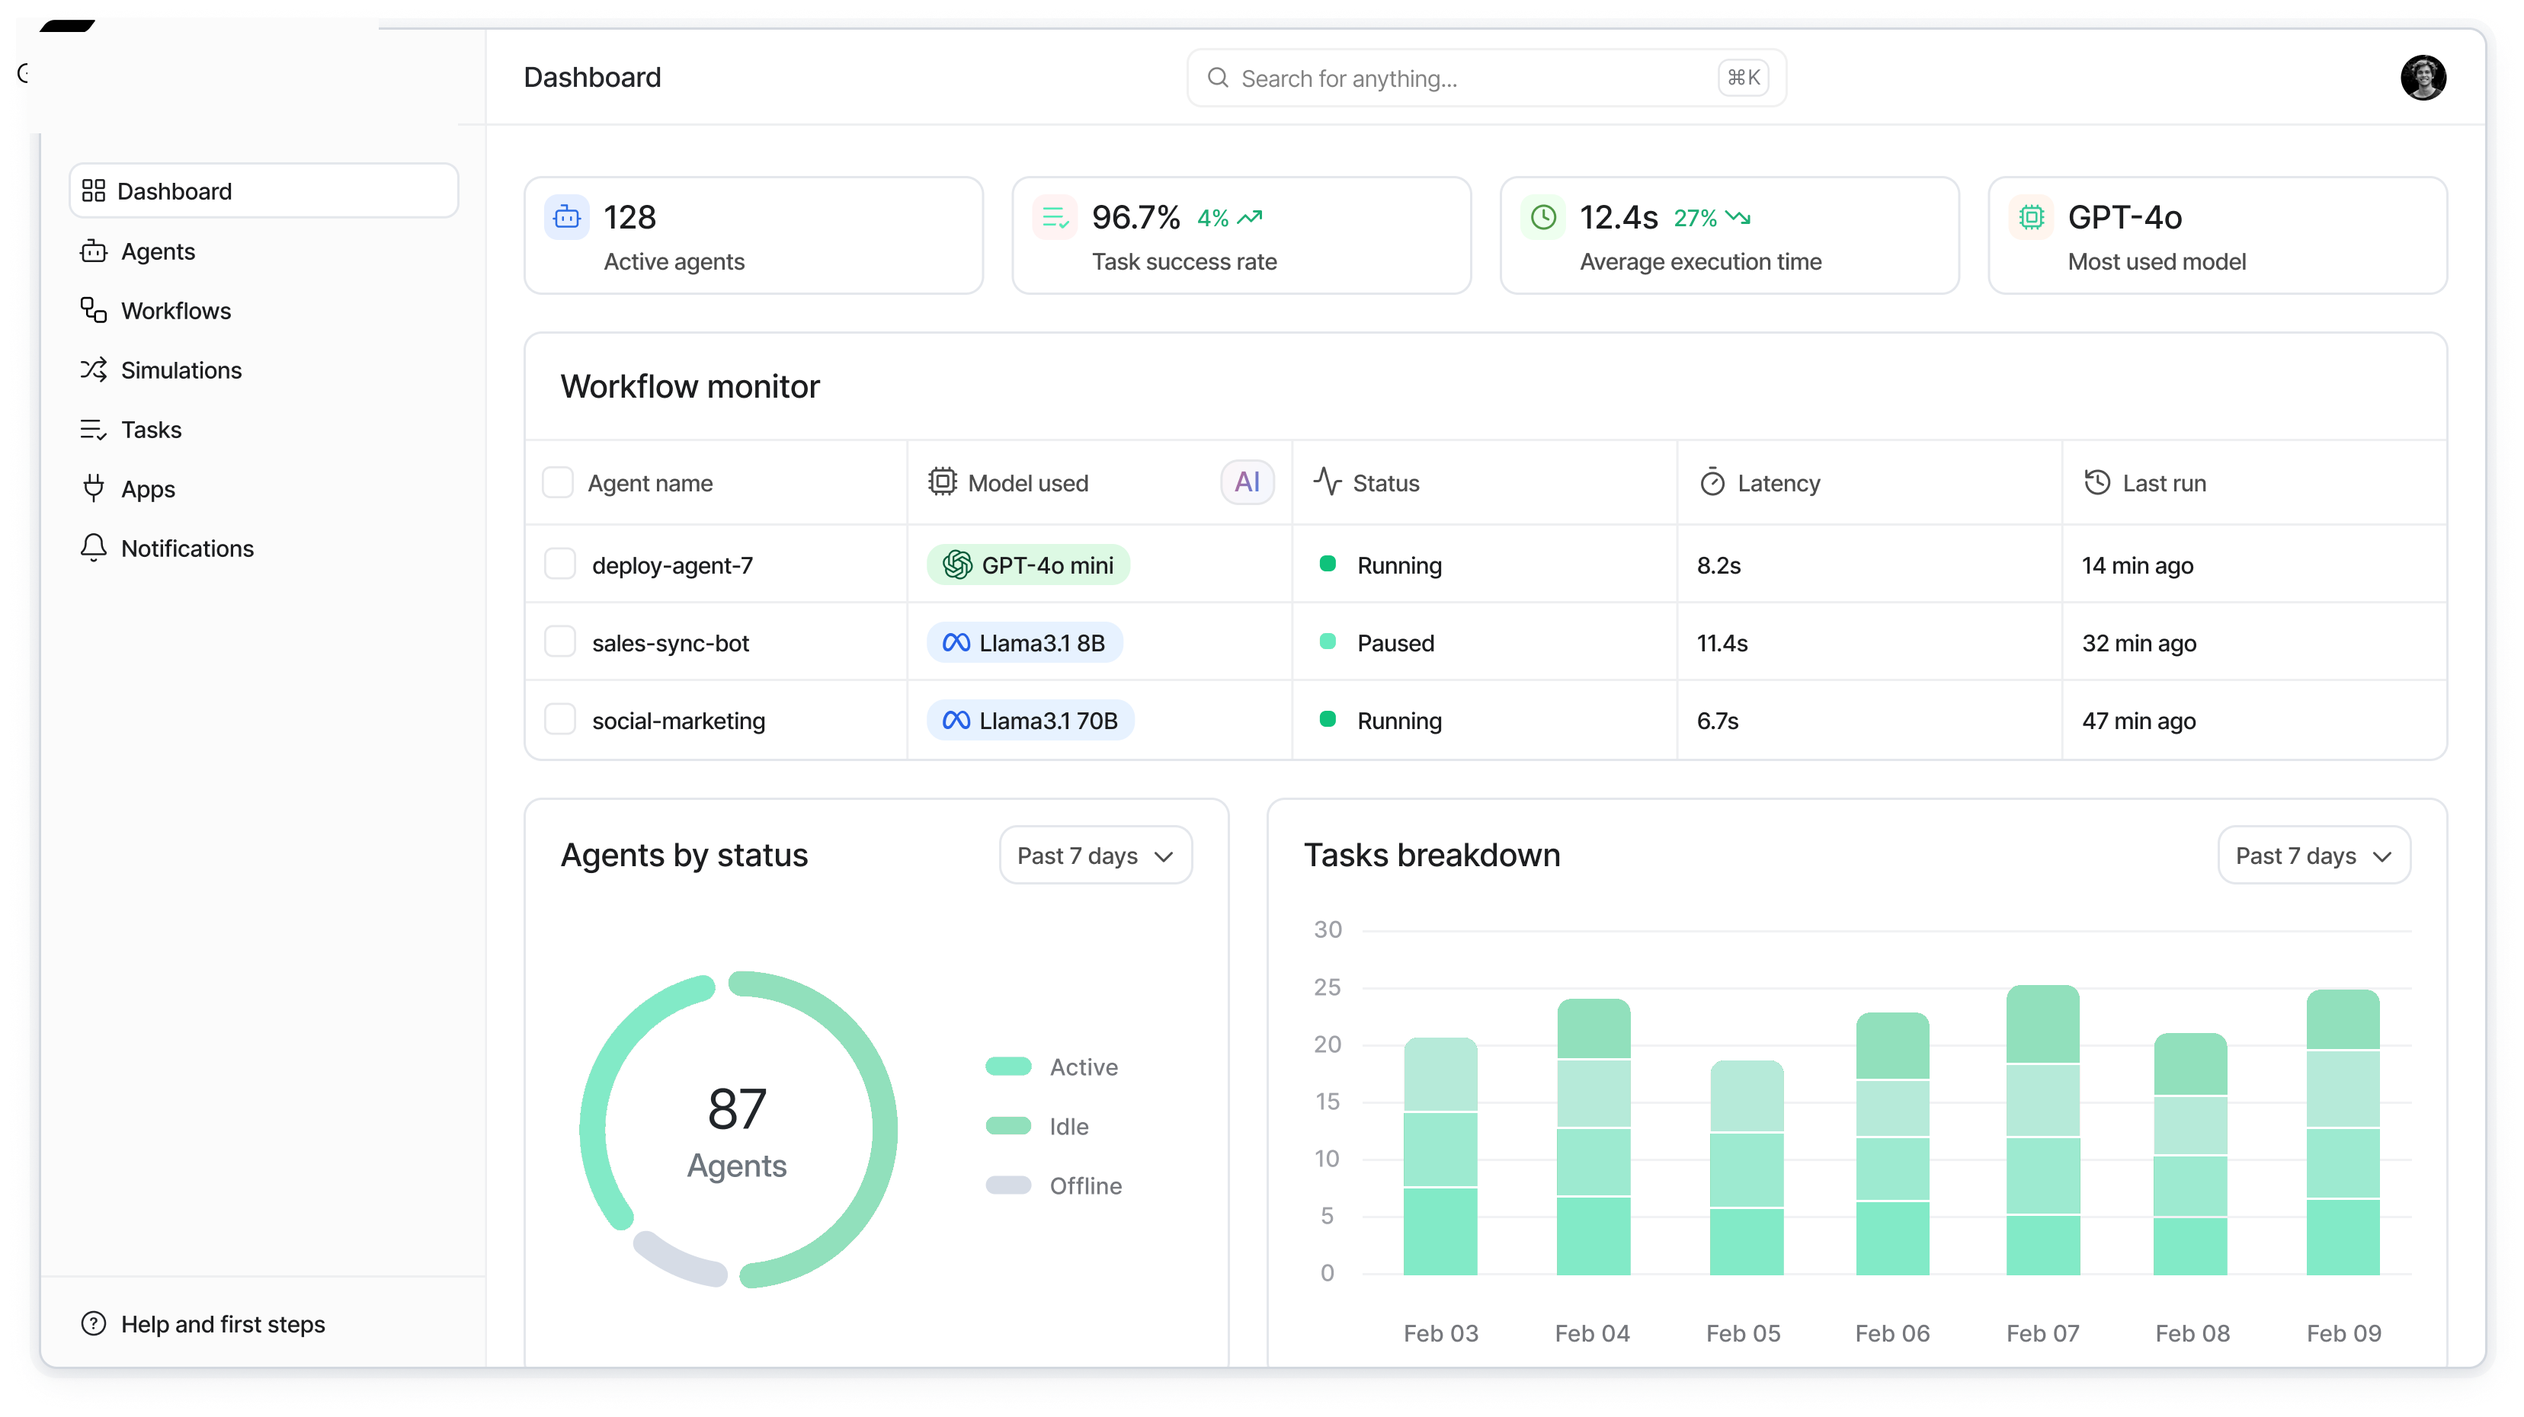
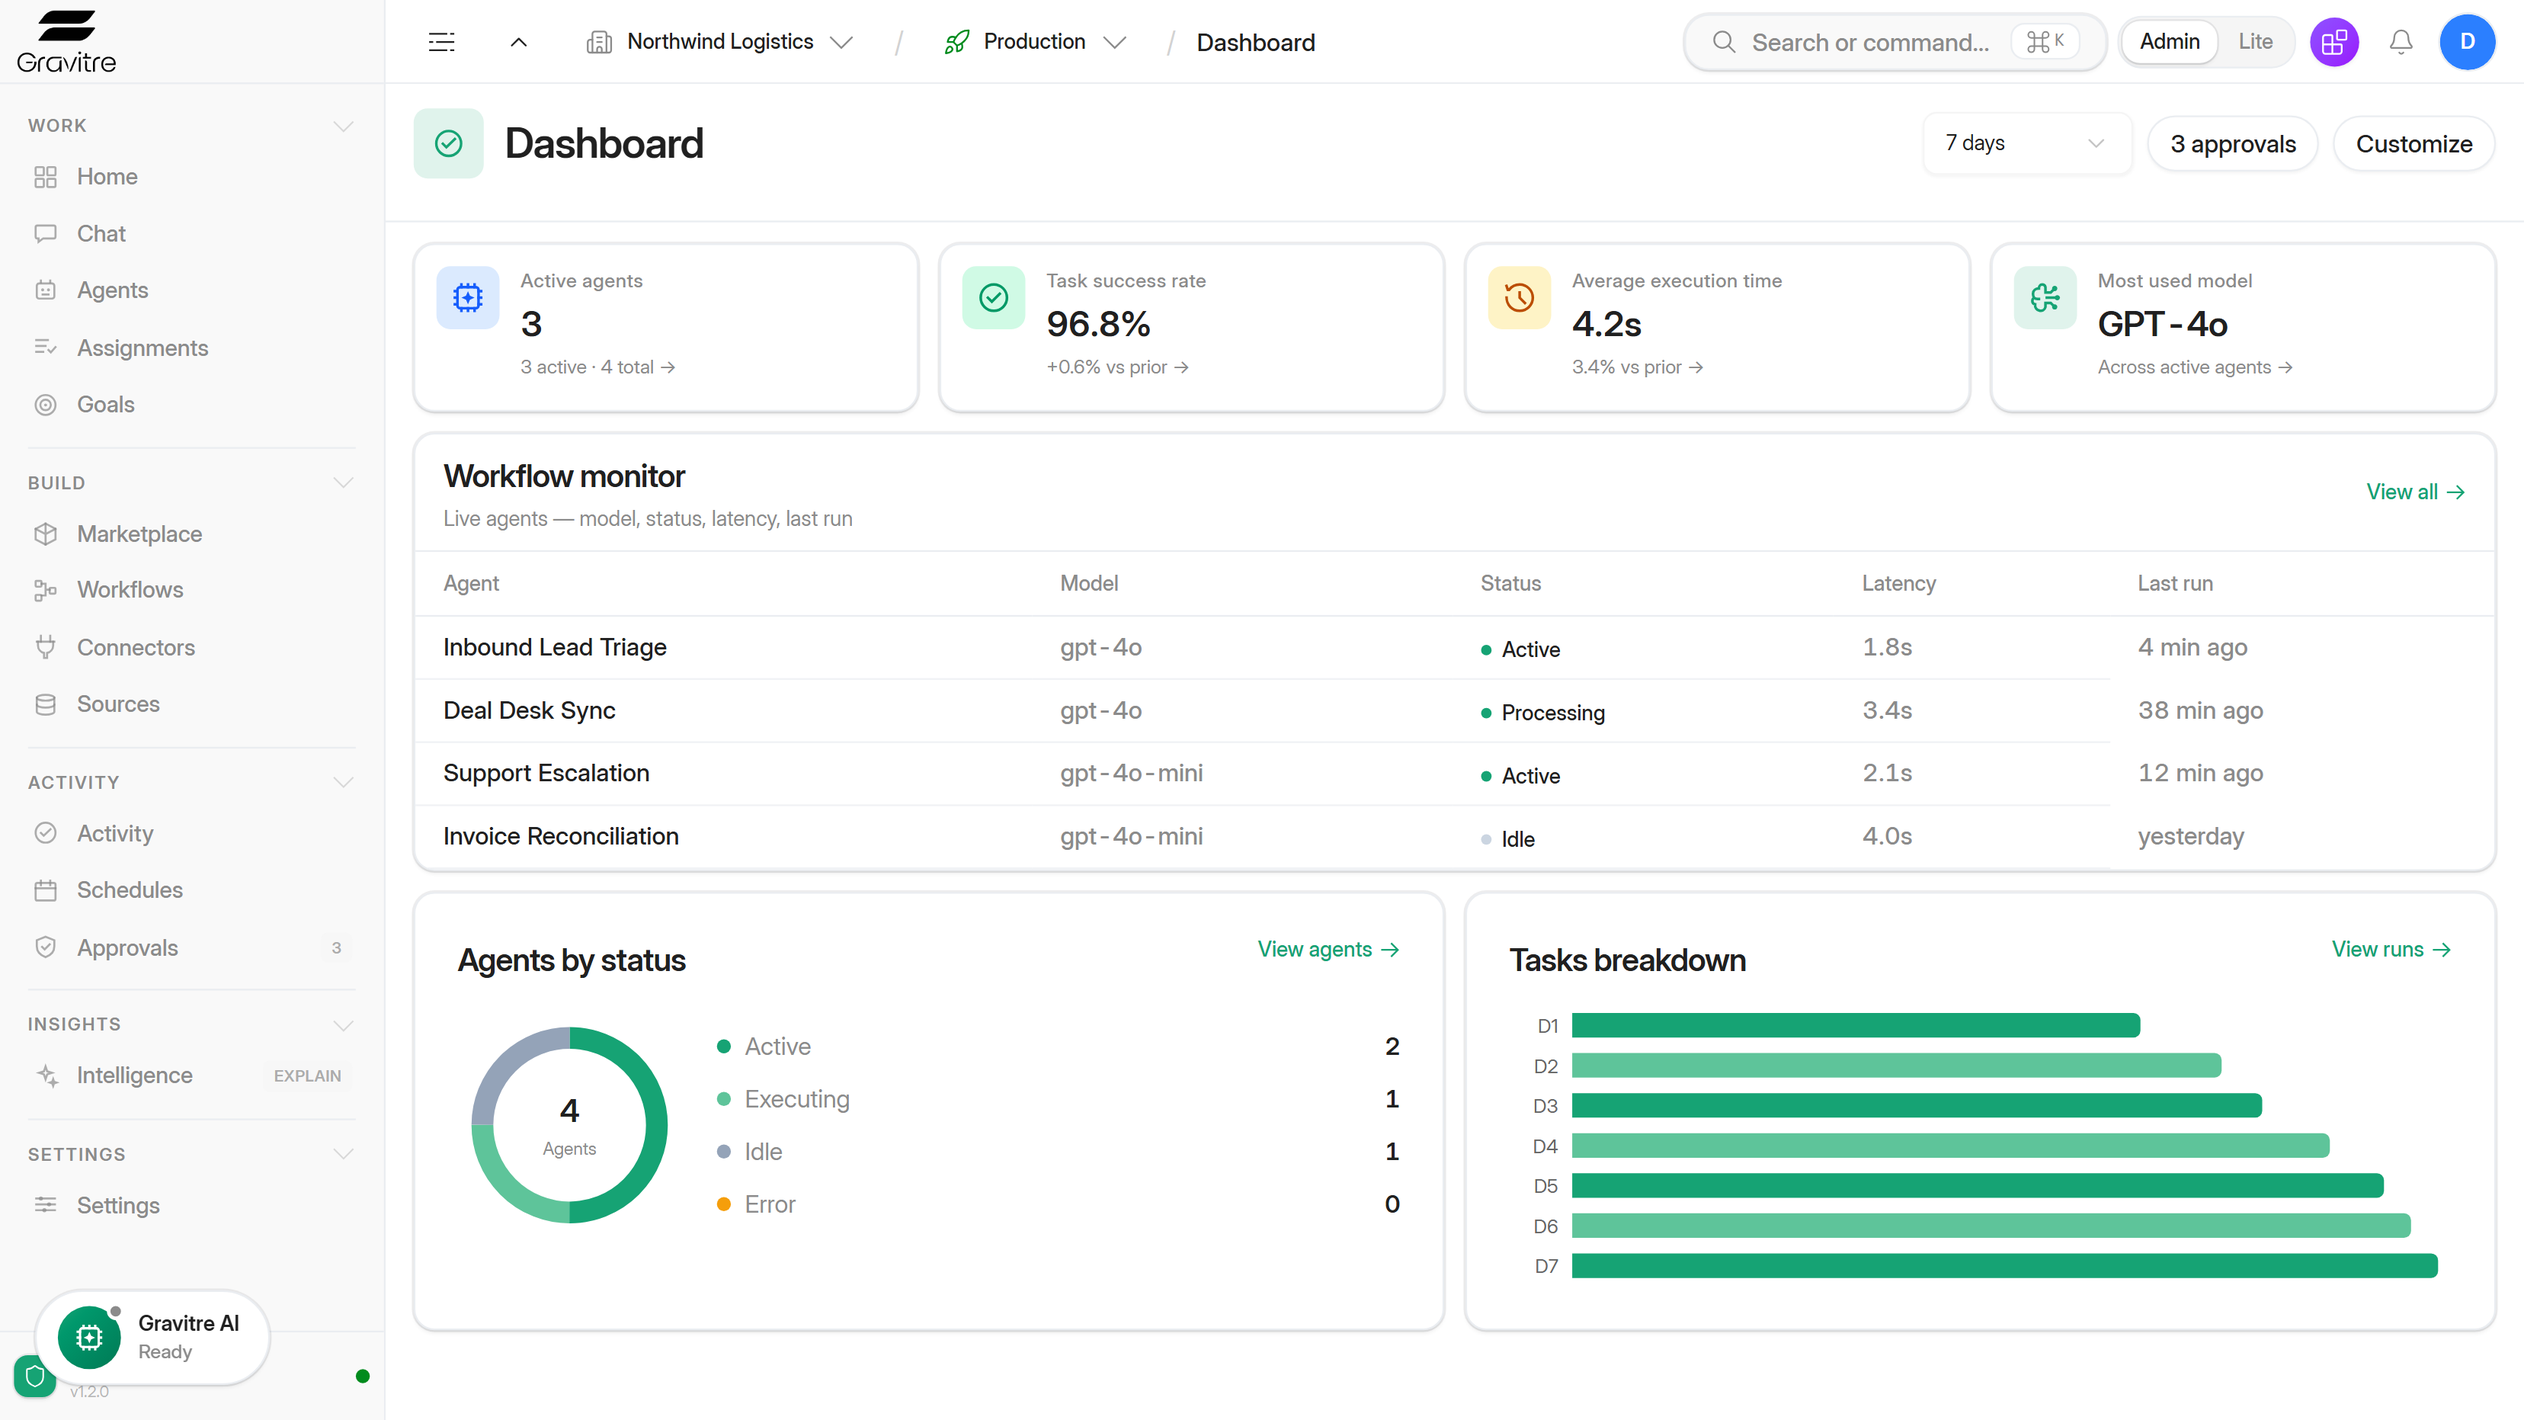
fix(marketing): restore crisp hero screenshot and align home KPIs with Nodus
Revert lazy AVIF/WebP hero to full-resolution PNG for mobile reliability, add Nodus-style KPI icons plus Most used model as the fourth default metric, and refresh dashboard marketing captures from the fixture home surface.

diff --git a/apps/web/components/home/dashboard-widget-view.tsx b/apps/web/components/home/dashboard-widget-view.tsx
@@ -1,5 +1,6 @@
 "use client"
 
+import type { ReactNode } from "react"
 import Link from "next/link"
 import {
   Bar,
@@ -23,9 +24,16 @@ import { cn } from "@/lib/utils"
 import { KPI_BY_ID } from "@/lib/dashboard/kpi-registry"
 import type { PlacedWidget } from "@/lib/dashboard/place-widgets"
 import type { HomeDashboardData } from "@/hooks/use-home-dashboard-data"
+import { formatModelLabel } from "@/hooks/use-home-dashboard-data"
 import { relativeTime } from "@/lib/agent-job-result"
 import { APP_ROUTES } from "@/lib/app-routes"
-import { NucleoArrowRight } from "@/components/icons/nucleo/semantic"
+import {
+  NucleoAgent,
+  NucleoArrowRight,
+  NucleoHistory,
+  NucleoIntelligence,
+  NucleoSuccess,
+} from "@/components/icons/nucleo/semantic"
 
 const BRAND = "#16a374"
 const BRAND_SOFT = "#5ec49a"
@@ -46,19 +54,41 @@ function emptyLabel(kind: "runs" | "agents" | "generic"): string {
   return "No data yet"
 }
 
+const KPI_ICON_STYLES: Record<string, { icon: ReactNode; iconClassName: string }> = {
+  "agents.active": {
+    icon: <NucleoAgent className="h-[18px] w-[18px]" aria-hidden />,
+    iconClassName: "bg-blue-100 text-blue-600",
+  },
+  "runs.success_rate": {
+    icon: <NucleoSuccess className="h-[18px] w-[18px]" aria-hidden />,
+    iconClassName: "bg-emerald-100 text-emerald-600",
+  },
+  "runs.avg_duration": {
+    icon: <NucleoHistory className="h-[18px] w-[18px]" aria-hidden />,
+    iconClassName: "bg-amber-100 text-amber-700",
+  },
+  "models.most_used": {
+    icon: <NucleoIntelligence className="h-[18px] w-[18px]" aria-hidden />,
+    iconClassName: "bg-[color:var(--g-brand-soft)] text-[color:var(--g-brand)]",
+  },
+}
+
 function MetricNumber({
+  metricId,
   label,
   value,
   hint,
   href,
   warning,
 }: {
+  metricId?: string
   label: string
   value: string
   hint?: string
   href?: string
   warning?: boolean
 }) {
+  const iconStyle = metricId ? KPI_ICON_STYLES[metricId] : undefined
   return (
     <GravitreMetric
       label={label}
@@ -66,6 +96,8 @@ function MetricNumber({
       hint={hint}
       href={href}
       warning={warning}
+      icon={iconStyle?.icon}
+      iconClassName={iconStyle?.iconClassName}
       className="h-full"
     />
   )
@@ -378,9 +410,21 @@ function resolveKpiValue(
     case "runs.avg_duration":
       return {
         value: formatDuration(data.metrics.avgDuration),
-        hint: data.metrics.avgDuration != null ? "Mean run duration →" : "Waiting for runs",
+        hint:
+          data.metrics.avgDuration != null
+            ? data.metrics.changes.avgLatency != null
+              ? `${data.metrics.changes.avgLatency >= 0 ? "+" : ""}${Math.abs(data.metrics.changes.avgLatency)}% vs prior →`
+              : "Mean run duration →"
+            : "Waiting for runs",
         href,
         empty: data.metrics.avgDuration == null,
+      }
+    case "models.most_used":
+      return {
+        value: data.mostUsedModel ? formatModelLabel(data.mostUsedModel) : "—",
+        hint: data.mostUsedModel ? "Across active agents →" : "Assign models to agents",
+        href,
+        empty: !data.mostUsedModel,
       }
     case "runs.total":
       return {
@@ -626,6 +670,7 @@ export function DashboardWidgetView({
 
   return (
     <MetricNumber
+      metricId={widget.metricId}
       label={title}
       value={resolved.empty && resolved.value === "—" ? "—" : resolved.value}
       hint={

diff --git a/apps/web/components/marketing/nodus/hero-image.tsx b/apps/web/components/marketing/nodus/hero-image.tsx
@@ -1,10 +1,7 @@
 import React from "react"
+import Image from "next/image"
 import { cn } from "@/lib/utils"
 import { Container } from "./container"
-
-/** Intrinsic size of dashboard-hero.* (1024×575, from dashboard@3x.png 3312×1860). */
-const HERO_IMG_WIDTH = 1024
-const HERO_IMG_HEIGHT = 575
 
 /** Static corner markers — avoids client Dot (mousemove + framer-motion) on LCP path. */
 function CornerDot({ className }: { className?: string }) {
@@ -17,8 +14,8 @@ function CornerDot({ className }: { className?: string }) {
 }
 
 /**
- * Hero product screenshot — pre-optimized AVIF/WebP (~28 KiB vs 573 KiB PNG).
- * Below the Lighthouse desktop fold (hero min-h); lazy-loaded so h1 is LCP.
+ * Hero product screenshot — server-rendered for crisp marketing display.
+ * Uses the full-resolution dashboard capture in public/nodus/.
  */
 export const HeroImage = () => {
   return (
@@ -29,20 +26,18 @@ export const HeroImage = () => {
       <CornerDot className="bottom-0 right-0 xl:-bottom-1 xl:-right-2" />
       <div className="relative w-full">
         <div className="relative z-10 h-full w-full">
-          <picture>
-            <source srcSet="/nodus/dashboard-hero.avif" type="image/avif" />
-            <source srcSet="/nodus/dashboard-hero.webp" type="image/webp" />
-            <img
-              src="/nodus/dashboard-hero.webp"
-              alt="Gravitre product preview"
-              className="w-full"
-              width={HERO_IMG_WIDTH}
-              height={HERO_IMG_HEIGHT}
-              loading="lazy"
-              decoding="async"
-              draggable={false}
-            />
-          </picture>
+          <Image
+            src="/nodus/dashboard@3x.png"
+            alt="Gravitre product preview"
+            className="w-full"
+            priority
+            fetchPriority="high"
+            quality={75}
+            sizes="(max-width: 1024px) 100vw, min(100vw, 1280px)"
+            width={3312}
+            height={1860}
+            draggable={false}
+          />
         </div>
         <div className="absolute inset-0 z-0 m-auto h-[90%] w-[95%] rounded-lg border border-(--pattern-fg) bg-[image:repeating-linear-gradient(315deg,_var(--pattern-fg)_0,_var(--pattern-fg)_1px,_transparent_0,_transparent_50%)] bg-[size:10px_10px] bg-fixed" />
       </div>

diff --git a/apps/web/hooks/use-home-dashboard-data.ts b/apps/web/hooks/use-home-dashboard-data.ts
@@ -39,7 +39,38 @@ export type HomeDashboardData = {
   predictiveSummary: string | null
   readyModelCount: number | null
   learningVelocity: string | null
+  mostUsedModel: string | null
 }
+
+function computeMostUsedModel(agents: Agent[]): string | null {
+  const counts = new Map<string, number>()
+  for (const agent of agents) {
+    const model = agent.model?.trim()
+    if (!model) continue
+    counts.set(model, (counts.get(model) ?? 0) + 1)
+  }
+  if (counts.size === 0) return null
+  let best = ""
+  let bestCount = 0
+  for (const [model, count] of counts) {
+    if (count > bestCount) {
+      best = model
+      bestCount = count
+    }
+  }
+  return best || null
+}
+
+function formatModelLabel(model: string): string {
+  const normalized = model.trim()
+  if (!normalized) return "—"
+  if (/^gpt-4o$/i.test(normalized)) return "GPT-4o"
+  if (/^gpt-4o-mini$/i.test(normalized)) return "GPT-4o mini"
+  if (/^gpt-4/i.test(normalized)) return normalized.replace(/^gpt-/i, "GPT-")
+  return normalized
+}
+
+export { formatModelLabel }
 
 function rangeToApi(range: DashboardRange): string {
   // Overview endpoint accepts 7d | 30d | 90d only.
@@ -153,6 +184,7 @@ export function useHomeDashboardData(enabled: boolean, range: DashboardRange = "
       typeof learningStatus?.learning_velocity === "string"
         ? learningStatus.learning_velocity
         : null,
+    mostUsedModel: agents.length > 0 ? computeMostUsedModel(agents) : null,
   }
 
   return data

diff --git a/apps/web/lib/e2e-shot-fixtures.ts b/apps/web/lib/e2e-shot-fixtures.ts
@@ -181,6 +181,7 @@ const agents = [
     description:
       "Watches inbound form fills, enriches the company, and prepares the CRM write for review.",
     status: "active",
+    model: "gpt-4o",
     avatarColor: "#2563eb",
     personality: {
       color: "blue",
@@ -207,6 +208,7 @@ const agents = [
     description:
       "Reconciles opportunity stages against meeting notes and support threads, then proposes stage changes.",
     status: "processing",
+    model: "gpt-4o",
     avatarColor: "#7c3aed",
     personality: {
       color: "violet",
@@ -233,6 +235,7 @@ const agents = [
     description:
       "Triages inbound tickets, attaches account context, and escalates anything touching a paying account.",
     status: "active",
+    model: "gpt-4o-mini",
     avatarColor: "#0d9488",
     personality: {
       color: "teal",
@@ -259,6 +262,7 @@ const agents = [
     description:
       "Matches paid invoices against closed-won deals and flags the ones that disagree.",
     status: "idle",
+    model: "gpt-4o-mini",
     avatarColor: "#c2410c",
     personality: {
       color: "orange",
@@ -770,6 +774,9 @@ export const SHOT_FIXTURES: Record<string, unknown> = {
   },
   "/api/settings/dashboard-layout": {
     layout: null,
+  },
+  "/api/settings/agents-fleet": {
+    prefs: null,
   },
 
   // Requested as /api/workflows?org_id=… — the query string is ignored by the

diff --git a/apps/web/lib/dashboard/kpi-registry.ts b/apps/web/lib/dashboard/kpi-registry.ts
@@ -196,6 +196,20 @@ export const KPI_REGISTRY: KpiDefinition[] = [
     href: "/runs",
   },
   {
+    id: "models.most_used",
+    category: "models",
+    name: "Most used model",
+    description: "Model assigned to the most agents in the workspace",
+    availability: "available",
+    dataSource: "agentsApi.list · model field frequency",
+    defaultViz: "number",
+    allowedViz: ["number"],
+    defaultSize: "1x1",
+    allowedSizes: ["1x1", "2x1"],
+    href: "/agents",
+    recommended: true,
+  },
+  {
     id: "runs.avg_latency",
     category: "runs",
     name: "Average latency",
@@ -454,7 +468,7 @@ export function createDefaultLayout(): DashboardLayout {
       widget("agents.active", 0),
       widget("runs.success_rate", 1),
       widget("runs.avg_duration", 2),
-      widget("workflows.active", 3),
+      widget("models.most_used", 3),
       widget("agents.monitor", 4, { size: "4x1" }),
       widget("agents.by_status", 5, { size: "2x2" }),
       widget("runs.breakdown", 6, { size: "2x2" }),

diff --git a/apps/web/components/gravitre/nodus-product/metric.tsx b/apps/web/components/gravitre/nodus-product/metric.tsx
@@ -12,6 +12,7 @@ export function GravitreMetric({
   hint,
   href,
   icon,
+  iconClassName,
   warning = false,
   className,
 }: {
@@ -20,6 +21,7 @@ export function GravitreMetric({
   hint?: string
   href?: string
   icon?: ReactNode
+  iconClassName?: string
   warning?: boolean
   className?: string
 }) {
@@ -29,9 +31,10 @@ export function GravitreMetric({
         <div
           className={cn(
             "flex h-9 w-9 shrink-0 items-center justify-center rounded-[var(--np-radius-md)]",
-            warning
-              ? "bg-[color:var(--g-approval-soft)] text-[color:var(--g-approval-bright)]"
-              : "bg-[color:var(--g-brand-soft)] text-[color:var(--g-brand)]",
+            iconClassName ??
+              (warning
+                ? "bg-[color:var(--g-approval-soft)] text-[color:var(--g-approval-bright)]"
+                : "bg-[color:var(--g-brand-soft)] text-[color:var(--g-brand)]"),
           )}
         >
           {icon}

diff --git a/apps/web/components/marketing/nodus/hero.tsx b/apps/web/components/marketing/nodus/hero.tsx
@@ -15,9 +15,9 @@ import { MARKETING_COPY } from "@/lib/marketing-copy"
 export const Hero = () => {
   const h = MARKETING_COPY.hero
   return (
-    <Container className="border-divide flex flex-col items-center justify-center border-x px-4 pt-10 pb-10 md:min-h-[calc(100vh-5rem)] md:pt-32 md:pb-20">
+    <Container className="border-divide flex flex-col items-center justify-center border-x px-4 pt-10 pb-10 md:pt-32 md:pb-20">
       <span className="text-sm font-normal text-brand">One AI brain for your entire business</span>
-      <Heading className="mt-4 max-w-full px-1 text-balance [font-family:system-ui,sans-serif]">
+      <Heading className="mt-4 max-w-full px-1 text-balance">
         Manage agents, workflows, and{" "}
         <span className="text-brand">operations</span>
       </Heading>

diff --git a/apps/web/app/(marketing)/page.tsx b/apps/web/app/(marketing)/page.tsx
@@ -1,6 +1,6 @@
 import dynamic from "next/dynamic"
 import { Hero } from "@/components/marketing/nodus/hero"
-import { HeroImageLazy } from "@/components/marketing/nodus/hero-image-lazy"
+import { HeroImage } from "@/components/marketing/nodus/hero-image"
 import { DivideX } from "@/components/marketing/nodus/divide"
 
 /**
@@ -63,7 +63,7 @@ export default function HomePage() {
     <main>
       <Hero />
       <DivideX />
-      <HeroImageLazy />
+      <HeroImage />
       <DivideX />
       <HomeLogoCloudNote />
       <DivideX />
